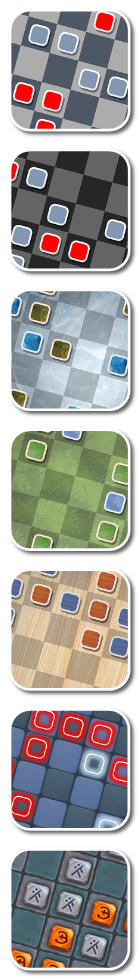
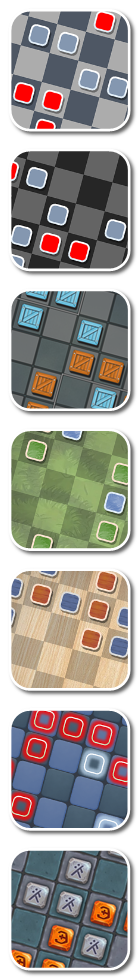
123

Changed region(s): [[0.0571, 0.2755, 0.9143, 0.4286]]

diff --git a/index.js b/index.js
@@ -14,7 +14,7 @@ let TM={s:0,ms:0}
 DESIGN_DATA={
 	0:{name:'def',rating:0,games:0},
 	1:{name:'old',rating:0,games:0},
-	2:{name:'ice',rating:1500,games:1000},
+	2:{name:'box',rating:1500,games:1000},
 	3:{name:'grass',rating:1700,games:5000},
 	4:{name:'wood',rating:1900,games:15000},
 	5:{name:'neon',rating:0,games:0,trnm_winner:1},